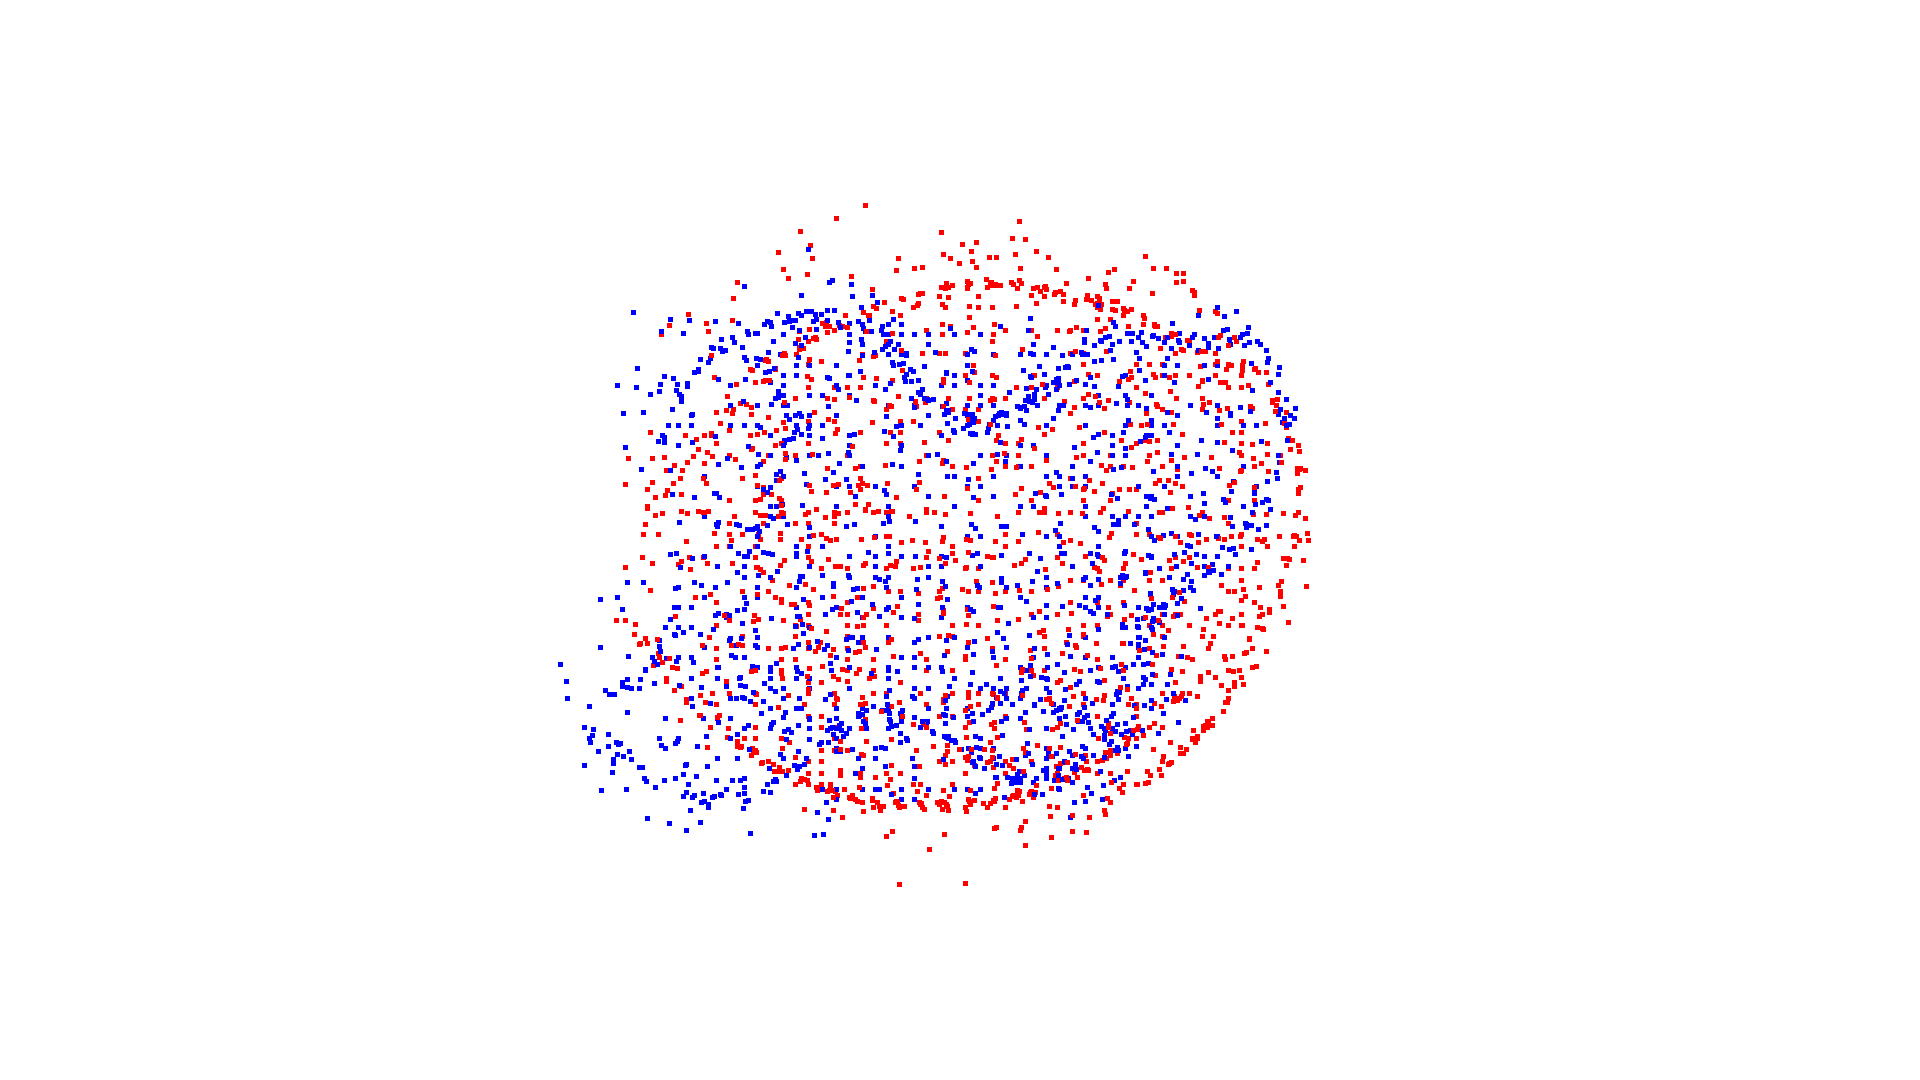
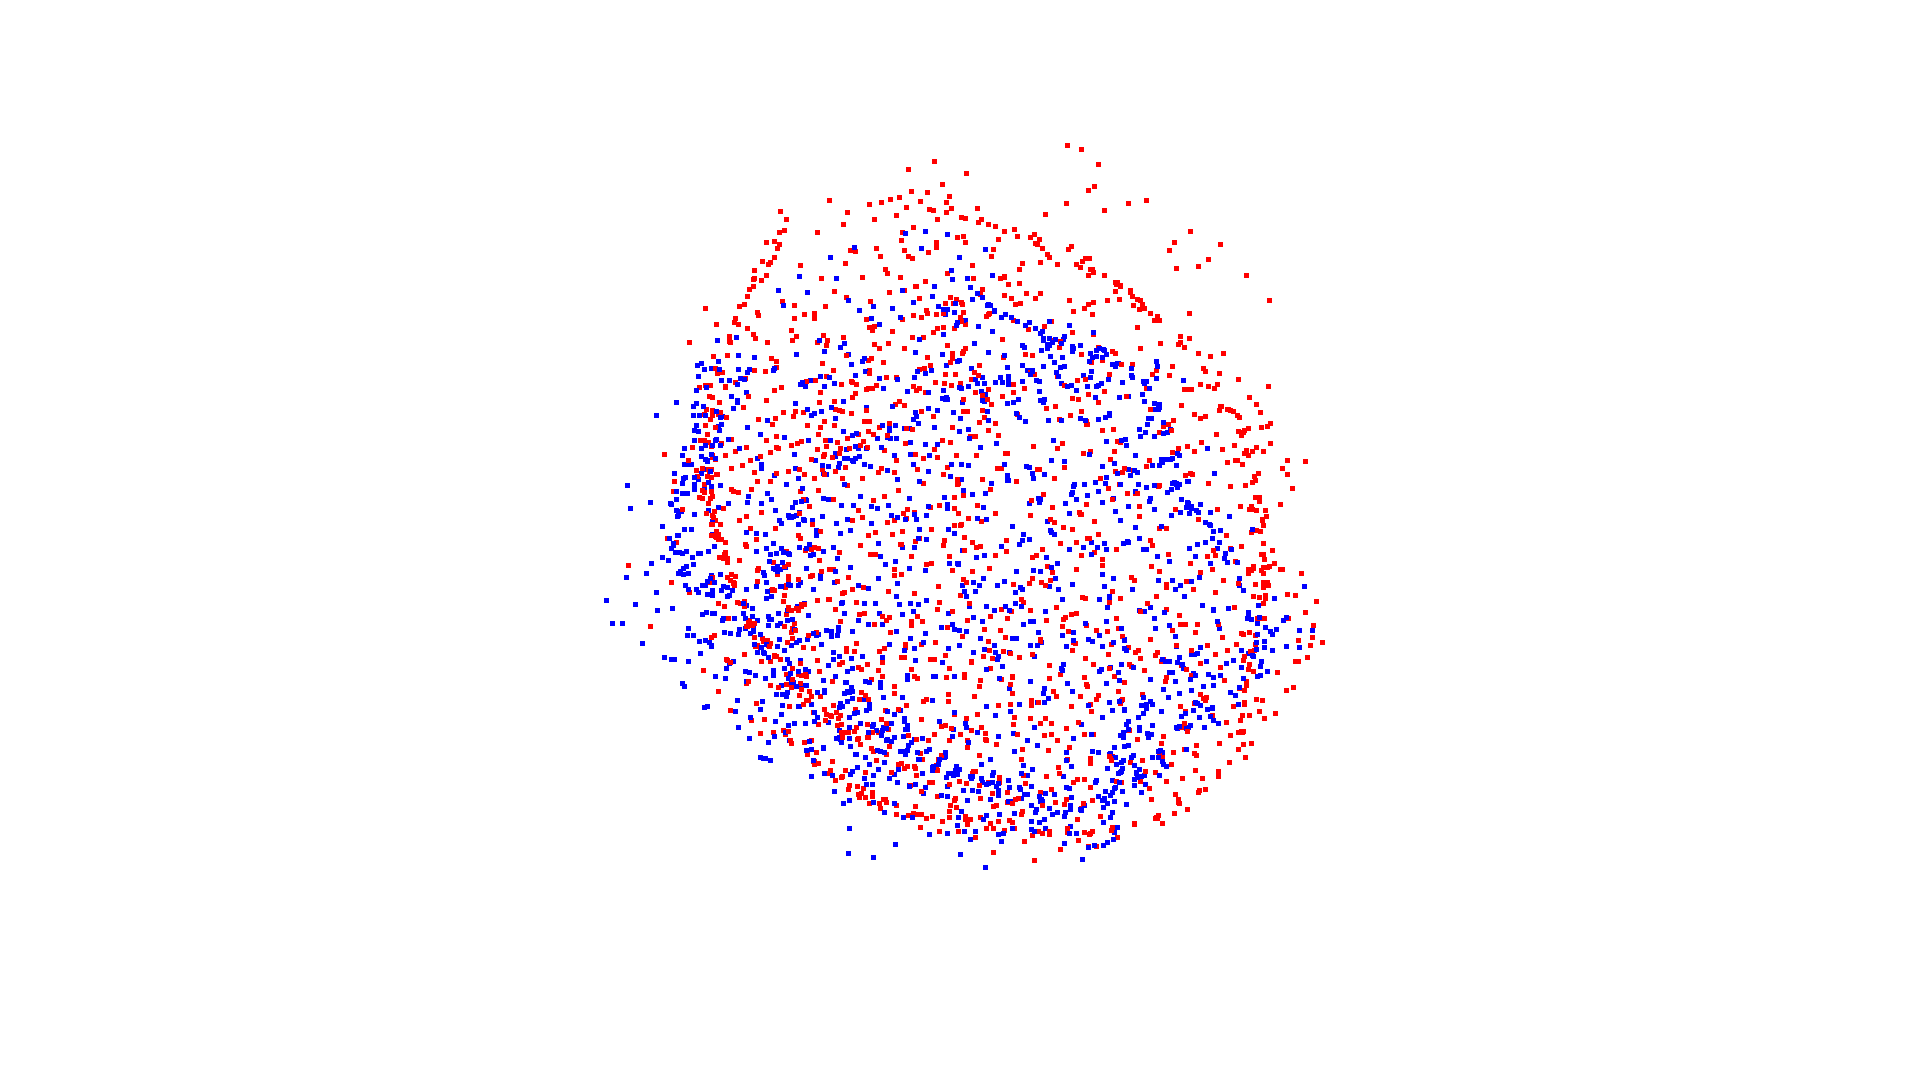
improved geometric sampler

Changed region(s): [[0.3125, 0.1833, 0.6875, 0.7944]]

diff --git a/planners/mpc.py b/planners/mpc.py
@@ -12,7 +12,11 @@ from planners.plan_geometric_utils import *
 from os.path import join
 from pytorch3d.loss import chamfer_distance
 from chamferdist import ChamferDistance
-from planners.geometric_sampler import GeometricSampler
+from planners.geometric_sampler import *
+
+import sys
+sys.path.append("./MSN-Point-Cloud-Completion/emd/")
+import emd_module as emd
 
 class MPC():
     def __init__(self, device, dvae, feature_dynamics_network, planning_horizon, n_actions, action_dim, sampler='random'):
@@ -70,6 +74,83 @@ class MPC():
         ns_pred = ns_pred * m
         ns_pred = ns_pred + normalization_centroid
         return ns_pred
+    
+    def visualize_grasp(self, state, action, next_state):
+        """
+        Visualize the grasp mesh on the point cloud showing the state and predicted next state.
+        Assume the inputs are unnormalized point clouds and unnormalized action.
+        """
+
+        # visualize state cloud
+        s_pcl = o3d.geometry.PointCloud()
+        s_pcl.points = o3d.utility.Vector3dVector(state)
+        s_colors = np.tile(np.array([0, 0, 1]), (state.shape[0],1))
+        s_pcl.colors = o3d.utility.Vector3dVector(s_colors)
+
+        # visualize reconstructed full cloud cloud [RED]
+        ns_pcl = o3d.geometry.PointCloud()
+        ns_pcl.points = o3d.utility.Vector3dVector(next_state)
+        ns_pcl_colors = np.tile(np.array([1, 0, 0]), (next_state.shape[0],1))
+        ns_pcl.colors = o3d.utility.Vector3dVector(ns_pcl_colors)
+
+        # center the action at the origin of the point cloud
+        pcl_center = np.array([0.6, 0.0, 0.25])
+        action[0:3] = action[0:3] - pcl_center
+        action[0:3] = action[0:3] + np.array([0.005, -0.002, 0.0]) # observational correction
+
+        # scale the action (multiply x,y,z,d by 10)
+        action_scaled = action * 10
+        action_scaled[3] = action[3] # don't scale the rotation
+        len = 10 * 0.08 # 8cm scaled  
+
+        # get the points and lines for the action orientation visualization
+        ctr = action_scaled[0:3]
+        upper_ctr = ctr + np.array([0,0, 0.6])
+        rz = 90 + action_scaled[3]
+        points, lines = line_3d_start_end(ctr, rz, len)
+        line_set = o3d.geometry.LineSet()
+        line_set.points = o3d.utility.Vector3dVector(points)
+        line_set.lines = o3d.utility.Vector2iVector(lines)
+        line_set.colors = o3d.utility.Vector3dVector(np.tile(np.array([1, 0, 0]), (lines.shape[0],1)))
+
+        delta = 0.8 - action_scaled[4] 
+        end_pts, _ = line_3d_start_end(ctr, rz, len - delta)
+        top_end_pts, _ = line_3d_start_end(upper_ctr, rz, len - delta)
+
+        # get the top points for the grasp (given gripper finger height)
+        top_points, _ = line_3d_start_end(upper_ctr, rz, len)
+
+        # gripper 1 
+        g1_base_start, _ = line_3d_start_end(points[0], rz+90, 0.18)
+        g1_base_end, _ = line_3d_start_end(end_pts[0], rz+90, 0.18)
+        g1_top_start, _ = line_3d_start_end(top_points[0], rz+90, 0.18)
+        g1_top_end, _ = line_3d_start_end(top_end_pts[0], rz+90, 0.18)
+        g1_points, g1_lines = line_3d_point_set([g1_base_start, g1_base_end, g1_top_start, g1_top_end])
+
+        g1 = o3d.geometry.LineSet()
+        g1.points = o3d.utility.Vector3dVector(g1_points)
+        g1.lines = o3d.utility.Vector2iVector(g1_lines)
+        g1.colors = o3d.utility.Vector3dVector(np.tile(np.array([1, 0, 0]), (g1_lines.shape[0],1)))
+
+        # gripper 2
+        g2_base_start, _ = line_3d_start_end(points[1], rz+90, 0.18)
+        g2_base_end, _ = line_3d_start_end(end_pts[1], rz+90, 0.18)
+        g2_top_start, _ = line_3d_start_end(top_points[1], rz+90, 0.18)
+        g2_top_end, _ = line_3d_start_end(top_end_pts[1], rz+90, 0.18)
+        g2_points, g2_lines = line_3d_point_set([g2_base_start, g2_base_end, g2_top_start, g2_top_end])
+
+        g2 = o3d.geometry.LineSet()
+        g2.points = o3d.utility.Vector3dVector(g2_points)
+        g2.lines = o3d.utility.Vector2iVector(g2_lines)
+        g2.colors = o3d.utility.Vector3dVector(np.tile(np.array([1, 0, 0]), (g2_lines.shape[0],1)))
+
+        ctr_action = o3d.geometry.PointCloud()
+        action_cloud = action_scaled[0:3].reshape(1,3)
+        # print("Action: ", action_cloud)
+        ctr_action.points = o3d.utility.Vector3dVector(action_scaled[0:3].reshape(1,3))
+        ctr_colors = np.tile(np.array([1, 0, 0]), (1,1))
+        ctr_action.colors = o3d.utility.Vector3dVector(ctr_colors)
+        o3d.visualization.draw_geometries([s_pcl, ns_pcl, ctr_action, line_set, g1, g2])
 
     def plan(self, obs_pcl, target_pcl):
         """
@@ -77,8 +158,9 @@ class MPC():
         given the current point cloud observation and a target point cloud.
         """
         final_states, all_actions = [], []
-        state = obs_pcl
+        # state = obs_pcl
         for _ in tqdm(range(self.n_actions)):
+            state = np.copy(obs_pcl) # condisder replacing with deepcopy
             with torch.no_grad():
 
                 actions = []
@@ -86,28 +168,35 @@ class MPC():
                     if self.sampler == 'constrain_d':
                         a = random_sample_normalized_constrained_action(self.action_dim)
                     elif self.sampler == 'geometric_informed':
-                        geometric = GeometricSampler(None)
-                        a = geometric.geometric_sampler(state, target_pcl, n_samples=25)
+                        # geometric = GeometricSampler(None)
+                        # print("\nState min: ", np.min(state, axis=0))
+                        a = geometric_sample(state, target_pcl)
+                        # print("geometric action: ", a)
                         a = normalize_action(a, self.action_dim)
+                        # print("normalized a :", a)
                     else:
                         a = random_sample_normalized_action(self.action_dim)
 
                     # predict the next state given the proposed action
-                    # print("\n\na: ", a)
                     state = self.dynamics_model(state, a)
-                    # TODO: convert state to numpy array with 2D
 
                     # unnormalize action
                     unnorm_a = unnormalize_a(a)
+
+                    # test visualize the grasp region for sanity check
+                    # self.visualize_grasp(state, unnorm_a, obs_pcl)
+
                     actions.append(unnorm_a)
                 final_states.append(state)
                 all_actions.append(actions)
         
         cd_target = torch.from_numpy(np.expand_dims(target_pcl, axis=0)).float().cuda()
         cd_final_state = torch.from_numpy(np.array(final_states)).float().cuda()
-        chamferDist = ChamferDistance()
-        dists = [chamferDist(fs.unsqueeze(0), cd_target).detach().cpu().item() for fs in cd_final_state]
-        # dists = [chamfer_distance(fs.unsqueeze(0), cd_target)[0].cpu().detach().numpy() for fs in cd_final_state]
+
+        # EMD = emd.emdModule()
+        # dists = [torch.sqrt(EMD(fs.unsqueeze(0), cd_target, eps=0.005, iters=50)[0]).mean(1).cpu().detach().numpy()[0] for fs in tqdm(cd_final_state)]
+        
+        dists = [chamfer_distance(fs.unsqueeze(0), cd_target)[0].cpu().detach().numpy() for fs in cd_final_state]
         # print("dists: ", dists)
 
         # get the index of the smallest distance
@@ -121,6 +210,12 @@ class MPC():
         target = np.reshape(target_pcl, (2048,3))
         target_pcl, pcl = plot_target_and_state_clouds(recon_pcl, target)
         o3d.visualization.draw_geometries([pcl, target_pcl])
+
+        # calculate min/max of point clouds for sanity check
+        print("\nMin of target: ", np.min(target, axis=0))
+        print("Max of target: ", np.max(target, axis=0))
+        print("Min of recon_pcl: ", np.min(recon_pcl, axis=0))
+        print("Max of recon_pcl: ", np.max(recon_pcl, axis=0))
 
         final_state = final_states[-1]
         return all_actions[idx], final_state, best_planned_dist

diff --git a/planner_main.py b/planner_main.py
@@ -25,6 +25,10 @@ from planners.cem import CEM
 import planners.UdpComms as U
 from chamferdist import ChamferDistance
 
+import sys
+sys.path.append("./MSN-Point-Cloud-Completion/emd/")
+import emd_module as emd
+
 
 # start by naming the experiment and the experiment parameters
 # create a folder with the experiment name and save a json file with the experiment parameters
@@ -54,7 +58,7 @@ def main_loop(cam_pipelines, cam_streams, udp, target_pcl, exp_args, save_path, 
     # initialize planner
     if exp_args['mpc'] == True:
         device = torch.device('cuda')
-        planner = MPC(device, dvae, feature_dynamics_network, exp_args['action_horizon'], exp_args['n_actions'], exp_args['a_dim'], sampler='random')
+        planner = MPC(device, dvae, feature_dynamics_network, exp_args['action_horizon'], exp_args['n_actions'], exp_args['a_dim'], sampler='geometric_informed')
     elif exp_args['cem'] == True:
         device = torch.device('cuda')
         planner = CEM(device, dvae, feature_dynamics_network, exp_args['action_horizon'], exp_args['n_actions'], exp_args['a_dim'], sampler='random')
@@ -75,16 +79,24 @@ def main_loop(cam_pipelines, cam_streams, udp, target_pcl, exp_args, save_path, 
         # FOR TESTING
         obs = np.load( '/home/alison/Clay_Data/Fully_Processed/Aug29_Correct_Scaling_Human_Demos/States/shell_scaled_state0.npy')
 
+        print("\nMin of obs: ", np.min(obs, axis=0))
+        print("Max of obs: ", np.max(obs, axis=0))
+        print("Min of target: ", np.min(target_pcl, axis=0))
+        print("Max of target: ", np.max(target_pcl, axis=0))
+
         np.save(save_path + '/obs' + str(i*exp_args['n_replan']) + '.npy', obs)
 
         # print distance between target and current state
         eval_target = torch.from_numpy(np.expand_dims(target_pcl, axis=0)).cuda()
         eval_obs = torch.from_numpy(np.expand_dims(obs, axis=0)).cuda()
-        # dist = chamfer_distance(eval_target, eval_obs)[0].cpu().detach().numpy()
-        chamferDist = ChamferDistance()
-        dist = chamferDist(eval_target, eval_obs).detach().cpu().item()
-        cur_CDs.append(dist)
+        dist = chamfer_distance(eval_target, eval_obs)[0].cpu().detach().numpy()
         print("\nCurrent Chamfer Distance: ", dist)
+
+        # EMD = emd.emdModule()
+        # dist, _ = EMD(eval_target, eval_obs, eps=0.005, iters=50)
+        # dist = torch.sqrt(dist).mean(1).cpu().detach().numpy()[0]
+        # cur_CDs.append(dist)
+        # print("\nCurrent EMD Distance: ", dist)
 
         # save the current state and target point cloud
         np.save(save_path + '/cur_state_pcl' + str(i*exp_args['n_replan']) + '.npy', obs)
@@ -105,6 +117,11 @@ def main_loop(cam_pipelines, cam_streams, udp, target_pcl, exp_args, save_path, 
         end = time.time()
         print("\n\n\nTotal Planning Time: ", end-start)
         best_planned_dists.append(best_planned_dist)
+
+        # check to make sure the best planned distance is less than the current distance
+        if best_planned_dist >= dist:
+            print("\nPlanned actions not improving CD, stopping planning!")
+            break
 
         # save the predicted final state of selected trajectory along with the action plan (unnormalized actions) and CD
         np.save(save_path + '/action_plan' + str(i*exp_args['n_replan']) + '.npy', action_plan)
@@ -137,17 +154,16 @@ def main_loop(cam_pipelines, cam_streams, udp, target_pcl, exp_args, save_path, 
 
 if __name__=='__main__':
     # import the dvae and dynamics models
-    dvae_path = 'experiments/dvae/ShapeNet55_models/test_dvae/ckpt-best.pth'
+    dvae_path = 'Point-BERT/experiments/dvae/ShapeNet55_models/test_dvae/ckpt-best.pth'
     device = torch.device('cuda')
 
     # for the models that were trained separately
-    center_dynamics_path = 'centroid_experiments/exp33_geometric' # 'dvae_dynamics_experiments/exp16_center_pointnet'
-    feature_dynamics_path = 'feature_experiments/exp15_new_dataset' # 'dvae_dynamics_experiments/exp39_dgcnn_pointnet'
+    feature_dynamics_path = 'Point-BERT/feature_experiments/exp15_new_dataset' # 'dvae_dynamics_experiments/exp39_dgcnn_pointnet'
     checkpoint = torch.load(feature_dynamics_path + '/checkpoint', map_location=torch.device('cpu'))
     feature_dynamics_network = checkpoint['feature_dynamics_network'].to(device) # 'dynamics_network'
 
     # load the dvae model
-    config = cfg_from_yaml_file('cfgs/Dynamics/dvae.yaml')
+    config = cfg_from_yaml_file('Point-BERT/cfgs/Dynamics/dvae.yaml')
     config=config.config
     dvae = builder.model_builder(config)
     builder.load_model(dvae, dvae_path, logger = 'dvae_testclay')
@@ -156,21 +172,23 @@ if __name__=='__main__':
 
     # create the exp_args dictionary
     exp_args = {
-        'action_horizon': 3, # 10
+        'action_horizon': 1, # 10
         'n_replan': 1,
         'mpc': True,
         'cem': False,
-        'n_actions': 10000, # 100
+        'n_actions': 25, # 100
         'a_dim': 5,
         'target_shape': 'X'
     }
 
     # define target_pcl
-    target_pcl = np.load('/home/alison/Clay_Data/Fully_Processed/Aug29_Correct_Scaling_Human_Demos/Next_States/shell_scaled_state360.npy')
+    # X: 360
+    # square: 1500
+    target_pcl = np.load('/home/alison/Clay_Data/Fully_Processed/Aug29_Correct_Scaling_Human_Demos/Next_States/shell_scaled_state3120.npy')
 
     # define experiment name and save path
     exp_name = 'Testing'
-    save_path = join(os.getcwd(), 'planners/Experiments/' + exp_name)
+    save_path = join(os.getcwd(), 'Point-BERT/planners/Experiments/' + exp_name)
     # os.mkdir(save_path)
 
     # initialize UDP communication with robot computer

diff --git a/planners/geometric_sampler.py b/planners/geometric_sampler.py
@@ -266,7 +266,7 @@ def most_different_regions(pc1, pc2, num_regions):
             cluster_pairs.append((pt1, pt2, dist))
     
     cluster_pairs.sort(key=lambda x: x[2], reverse=True)
-    print("Cluster Pairs: ", cluster_pairs)
+    # print("Cluster Pairs: ", cluster_pairs)
     # most_different.sort(key=lambda x: x[2], reverse=True)
 
     # print("Most different: ", most_different)
@@ -287,10 +287,15 @@ def __rotation_from_vector(vector):
     roll = np.degrees(np.arctan2(-vector[1], -vector[2]))
     return np.array([np.degrees(roll), np.degrees(pitch), np.degrees(yaw)])
 
-def geometric_sample(pc1, pc2, n_samples):
+def geometric_sample(pc1, pc2):
     cluster_pairs, labels1, labels2 = most_different_regions(pc1, pc2, 45) # original: 64
+
+    # get a list of the actions and a list of the distances
+    # sample the index with a probability based on the distances 
+
     actions = []
-    for i in range(n_samples):
+    dists = []
+    for i in range(len(cluster_pairs)):
         region_pair = cluster_pairs[i]
         point1 = region_pair[0]
         point2 = region_pair[1]
@@ -301,27 +306,37 @@ def geometric_sample(pc1, pc2, n_samples):
         # print("Dist: ", dist)
 
         region1_idx = np.where(point1 == labels1)[0]
-        region1 = points_1[region1_idx, :]
+        region1 = pc1[region1_idx, :]
         
         region2_idx = np.where(point2 == labels2)[0]
-        region2 = points_2[region2_idx, :]
+        region2 = pc2[region2_idx, :]
 
         # get the action
         ctr1 = np.mean(region1, axis=0)
         ctr2 = np.mean(region2, axis=0)
-        vector = ctr2 - ctr1
-        rot = __rotation_from_vector(vector)
-        x = ctr1[0]
-        y = ctr1[1]
-        z = ctr1[2]
+        vector = (ctr2 - ctr1) / 10
+        rot = __rotation_from_vector(vector) # TODO: this isn't working
+        x = ctr1[0] / 10
+        y = ctr1[1] / 10
+        z = ctr1[2] / 10
         rx = rot[0]
         ry = rot[1]
         rz = rot[2]
-        d = dist
+        d = dist / 10
+        # print("D: ", d)
 
-        action =  np.array([x, y, z, rx, ry, rz, d])
+        action =  np.array([x, y, z, rz, d])
+        pcl_center = np.array([0.6, 0.0, 0.25])
+        action[0:3] = action[0:3] + pcl_center
         actions.append(action)
-    return actions
+        dists.append(dist)
+
+    # TODO: do a weighted sampling of the potential actions instead of returning the top 25
+
+    # sample index wtih probability based on dists
+    sample_idx = np.random.choice(np.arange(len(actions)), 1, p=dists/np.sum(dists))[0]
+    action = actions[sample_idx]
+    return action
     
 if __name__ == '__main__':
     args = None
@@ -359,7 +374,7 @@ if __name__ == '__main__':
 
         # print("Point1: ", point1)
         # print("Point2: ", point2)
-        # print("Dist: ", dist)
+        print("\nDist: ", dist)
 
         region1_idx = np.where(point1 == labels1)[0]
         region1 = points_1[region1_idx, :]
